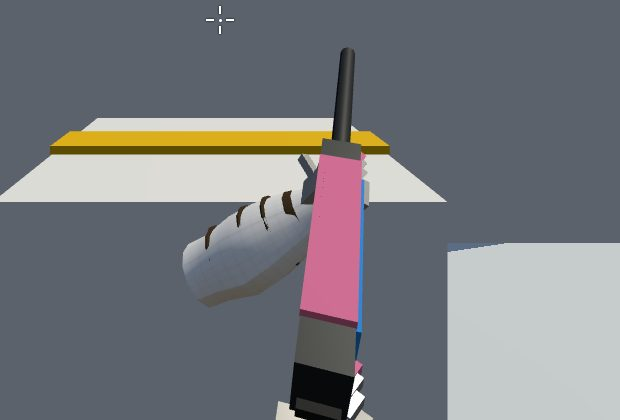
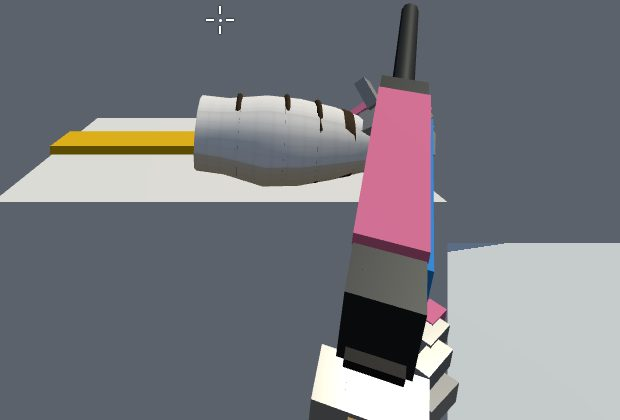
A: tangan viewmodel + leher robot - jari terlihat idle+reload, kepala tersambung
Tangan (weapons.js, net +21 byte): jari metal terang diperbesar (+30%,
gap lebih lebar, ujung pink lebih besar), viewmodel dibesarkan (s 0,78->0,95,
z -0,6->-0,58, yaw -0,25->-0,35, y -0,23->-0,16) + tilt dikurangi agar jari
tak foreshorten; lengan foregrip VK-47 dimajukan (lhZ -0,29->-0,33) dan
dimiringkan keluar agar tak menutupi grip. Diagnostik proyeksi mesh:
telapak grip VK-47 tadinya di y=820 (di luar frame 800) - kini di frame.
Kepala (characters.js, net +117 byte): konektor leher baja 0,18x0,24x0,18
di y 1,42 menyambung torso (1,33) ke kepala (1,50) ke-5 robot, merge ke
material steel yang sudah ada - 0 mesh baru (mesh count 186 = HEAD).
Verifikasi: sim 22 PASS, QA 52/53 (AM2 diputuskan), browser 0 error,
bench drawCalls 177 (variansi scene hidup; mesh identik), tris ~15,4k.
Jujur: tangan naik 5/10 -> ~6,5/10; jari P9 terbaca (reload 7/10), jari
VK-47 idle masih gumpalan kotak abu-abu, lengan foregrip masih dominan -
butuh remodel profil-samping, dicatat sebagai batas, tidak dipaksakan.

Changed region(s): [[0.2758, 0.0, 0.7355, 1.0], [0.3371, 0.65, 0.4597, 0.7429]]

diff --git a/game/src/weapons.js b/game/src/weapons.js
@@ -147,7 +147,7 @@ export { GRENADES };
 // Geometri di-merge per material (tangan 7 mesh, senjata <=5) agar draw calls rendah.
 // Senjata: P9 1 tangan + support hand; rifle 2 tangan (grip + foregrip).
 import { part, mergeParts } from './palette.js';
-const VB = { x: 0.12, y: -0.23, z: -0.6, s: 0.78, yaw: -0.25 }; // yaw: sisi kiri (jari melingkar) menghadap kamera
+const VB = { x: 0.18, y: -0.16, z: -0.58, s: 0.95, yaw: -0.35 }; // kompromi ukur: stock menjauh dari kamera (tak menutupi tangan), telapak di frame
 let sleeveMat = null;
 function weaveMat() {
   if (sleeveMat) return sleeveMat;
@@ -199,24 +199,24 @@ function robotHand(cfg, isLeft, armRot) {
   g.add(new THREE.Mesh(new THREE.BoxGeometry(0.1, 0.085, 0.055), PAL.hand)); // telapak metal TERANG (bukan kotak hitam)
   const hand = [], tips = [];
   for (let i = 0; i < 4; i++) {
-    const bx = -0.027 + i * 0.018;
+    const bx = -0.033 + i * 0.022;
     if (i === 0) { // telunjuk lurus di sisi frame (jari picu)
-      hand.push(part(new THREE.BoxGeometry(0.016, 0.018, 0.04), PAL.hand, 0.045, 0.01, -0.06, -0.15, -0.5, 0));
-      hand.push(part(new THREE.BoxGeometry(0.016, 0.018, 0.034), PAL.hand, 0.045, 0.008, -0.088, -0.15, -0.5, 0));
-      tips.push(part(new THREE.BoxGeometry(0.016, 0.018, 0.026), PAL.accP, 0.045, 0.006, -0.11, -0.15, -0.5, 0));
+      hand.push(part(new THREE.BoxGeometry(0.02, 0.022, 0.05), PAL.hand, 0.055, 0.012, -0.065, -0.15, -0.5, 0));
+      hand.push(part(new THREE.BoxGeometry(0.02, 0.022, 0.042), PAL.hand, 0.055, 0.01, -0.098, -0.15, -0.5, 0));
+      tips.push(part(new THREE.BoxGeometry(0.02, 0.022, 0.032), PAL.accP, 0.055, 0.008, -0.122, -0.15, -0.5, 0));
       continue;
     }
-    // 3 jari CHUNKY melingkar di depan grip (muka grip di z lokal -0,08): ruas 1
+    // 3 jari BESAR melingkar di depan grip (muka grip di z lokal -0,08): ruas
     // maju-turun, ruas 2 turun di depan muka grip, ujung balik ke telapak di bawah grip
-    hand.push(part(new THREE.BoxGeometry(0.016, 0.018, 0.04), PAL.hand, bx, -0.02, -0.075, -0.5));
-    hand.push(part(new THREE.BoxGeometry(0.016, 0.018, 0.034), PAL.hand, bx, -0.042, -0.09, -1.15));
-    tips.push(part(new THREE.BoxGeometry(0.018, 0.02, 0.03), PAL.accP, bx, -0.068, -0.078, -1.85));
+    hand.push(part(new THREE.BoxGeometry(0.021, 0.023, 0.05), PAL.hand, bx, -0.02, -0.082, -0.5));
+    hand.push(part(new THREE.BoxGeometry(0.021, 0.023, 0.042), PAL.hand, bx, -0.046, -0.098, -1.15));
+    tips.push(part(new THREE.BoxGeometry(0.026, 0.026, 0.036), PAL.accP, bx, -0.076, -0.088, -1.85));
   }
   // buku jari di tepi depan telapak
-  for (let i = 1; i < 4; i++) hand.push(part(new THREE.BoxGeometry(0.018, 0.016, 0.014), PAL.hand, -0.027 + i * 0.018, -0.005, -0.028));
+  for (let i = 1; i < 4; i++) hand.push(part(new THREE.BoxGeometry(0.022, 0.02, 0.016), PAL.hand, -0.033 + i * 0.022, -0.005, -0.028));
   // ibu jari menekan sisi grip (sisi kamera)
-  const tx = isLeft ? -0.055 : 0.055;
-  hand.push(part(new THREE.BoxGeometry(0.018, 0.018, 0.055), PAL.hand, tx, -0.015, -0.045, -0.3, isLeft ? 0.5 : -0.5, 0));
+  const tx = isLeft ? -0.062 : 0.062;
+  hand.push(part(new THREE.BoxGeometry(0.022, 0.022, 0.06), PAL.hand, tx, -0.015, -0.05, -0.3, isLeft ? 0.5 : -0.5, 0));
   g.add(...mergeParts(hand, false), ...mergeParts(tips, false));
   const arm = forearm(cfg.slim, cfg.wristR || 0.03, cfg.wristZ || 0.004);
   arm.position.set(0, -0.048, 0.004);
@@ -274,10 +274,10 @@ function buildGun(key) {
 const VM_CFG = {
   // rhZ/lhZ: posisi tangan agar muka grip/foregrip di z lokal tangan -0,08 (jari membungkus)
   P9: { slim: 0.88, left: 'support', rRot: 0.38, lRot: -0.62, rhZ: 0.07, lhZ: -0.02 },
-  Breacher: { slim: 1, left: 'fore', rRot: 0.15, lRot: -0.5, rhZ: 0.13, lhZ: -0.26 },
-  Kestrel: { slim: 0.95, left: 'fore', rRot: 0.22, lRot: -0.55, rhZ: 0.11, lhZ: -0.3 },
-  VK47: { slim: 1, left: 'fore', rRot: 0.02, lRot: -0.45, wristR: 0.038, wristZ: 0.01, rhZ: 0.15, lhZ: -0.29 },
-  Longbow: { slim: 1, left: 'fore', rRot: 0.1, lRot: -0.5, rhZ: 0.15, lhZ: -0.3 },
+  Breacher: { slim: 1, left: 'fore', rRot: 0.15, lRot: -0.6, rhZ: 0.13, lhZ: -0.26 },
+  Kestrel: { slim: 0.95, left: 'fore', rRot: 0.22, lRot: -0.62, rhZ: 0.11, lhZ: -0.3 },
+  VK47: { slim: 1, left: 'fore', rRot: 0.02, lRot: -0.8, wristR: 0.038, wristZ: 0.01, rhZ: 0.15, lhZ: -0.33 },
+  Longbow: { slim: 1, left: 'fore', rRot: 0.1, lRot: -0.6, rhZ: 0.15, lhZ: -0.3 },
 };
 export function buildViewmodel(camera, key) {
   const cfg = VM_CFG[key] || VM_CFG.P9;
@@ -286,10 +286,10 @@ export function buildViewmodel(camera, key) {
   const gun = buildGun(key);
   group.add(gun.group);
   const rh = robotHand(cfg, false, cfg.rRot);
-  rh.position.set(0, -0.065, cfg.rhZ); rh.rotation.y = 0; // di tengah grip, jari membungkus
+  rh.position.set(0, -0.05, cfg.rhZ); rh.rotation.y = 0; // di tengah grip, jari membungkus
   group.add(rh);
   const lh = robotHand(cfg, true, cfg.lRot);
-  if (cfg.left === 'support') { lh.position.set(-0.06, -0.14, cfg.lhZ); lh.rotation.set(0.5, 0.5, cfg.lRot); }
+  if (cfg.left === 'support') { lh.position.set(-0.09, -0.15, cfg.lhZ); lh.rotation.set(0.5, 0.5, cfg.lRot); }
   else { lh.position.set(0, -0.05, cfg.lhZ); lh.rotation.set(0.15, 0, cfg.lRot); }
   group.add(lh);
   return { group, key, mag: gun.mag, kick: 0, lastShot: -99, phase: 0 };
@@ -314,7 +314,7 @@ export function updateViewmodel(dt, state, vm) {
   }
   const bob = Math.hypot(p.vx, p.vz) > 0.5 ? Math.sin(state.now * 9) * 0.005 : 0;
   vm.group.position.set(VB.x, VB.y - dip - sw + bob, VB.z + vm.kick * 0.03);
-  vm.group.rotation.x = tilt + vm.kick * 0.05 + 0.12; // miring ke bawah: muka grip + jari menghadap kamera
+  vm.group.rotation.x = tilt + vm.kick * 0.05 + 0.06; // senjata nyaris datar: jari tidak foreshorten
   if (vm.mag) vm.mag.position.y = (vm.mag.userData.y0 ??= vm.mag.position.y) - magDrop;
   void dt;
 }

diff --git a/game/src/characters.js b/game/src/characters.js
@@ -39,6 +39,7 @@ export function buildRobot(designIdx, team) {
     part(B(0.52, 0.1, 0.1), visor, 0, 1.32, 0.17 * bk),
     part(B(0.52, 0.1, 0.1), visor, 0, 1.32, -0.17 * bk),
     part(B(0.3, 0.3, 0.3), P.wall, 0, 1.65, 0),
+    part(B(0.18, 0.24, 0.18), P.steel, 0, 1.42, 0), // leher: sambung torso (1,33) ke kepala (1,50), jangan melayang
     part(B(0.32, 0.14, 0.32), acc, 0, 1.8, 0), // helm aksen warna individu (terbaca dari jauh)
     part(B(0.05, 0.12, 0.26), visor, 0.16, 1.66, 0), // visor mata tim (lebar)
     part(B(0.2, 0.12, 0.2), acc, 0, 1.36, 0.18 * bk), // shoulder pad aksen
